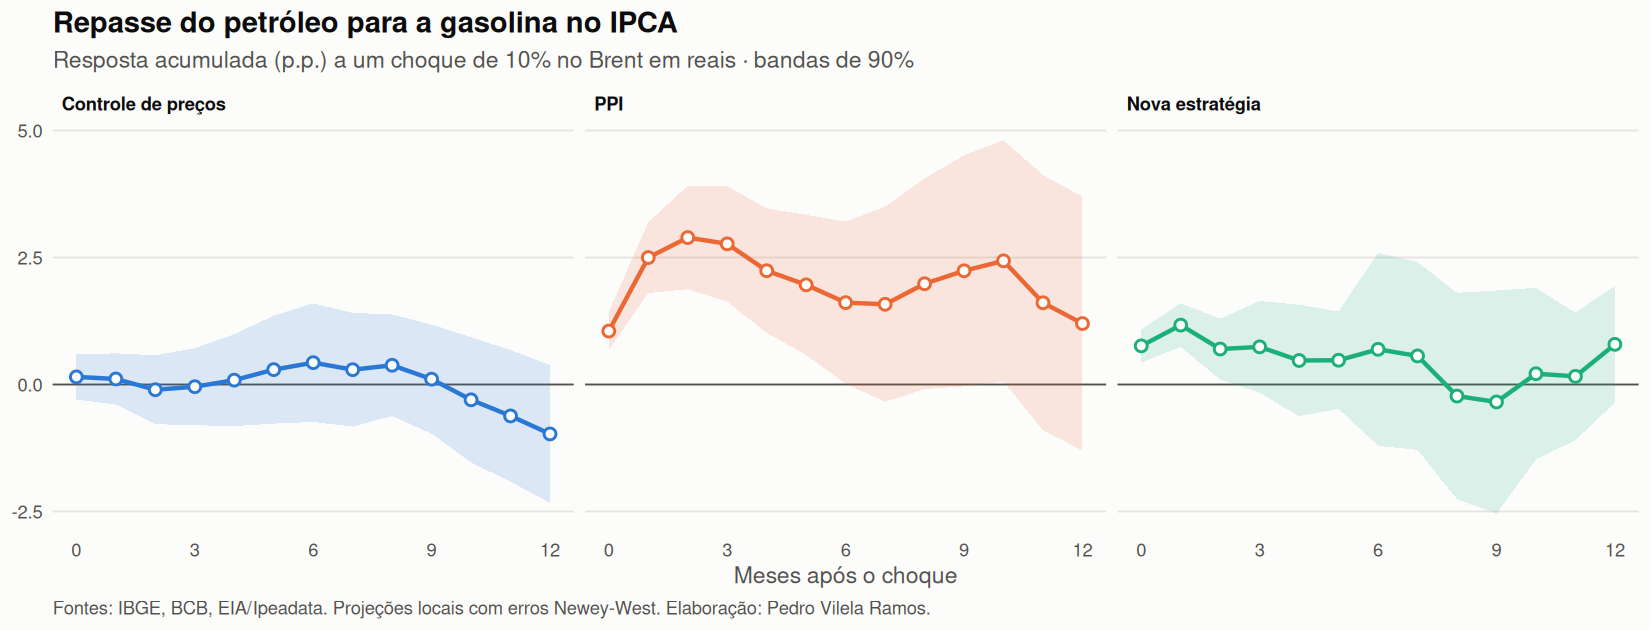
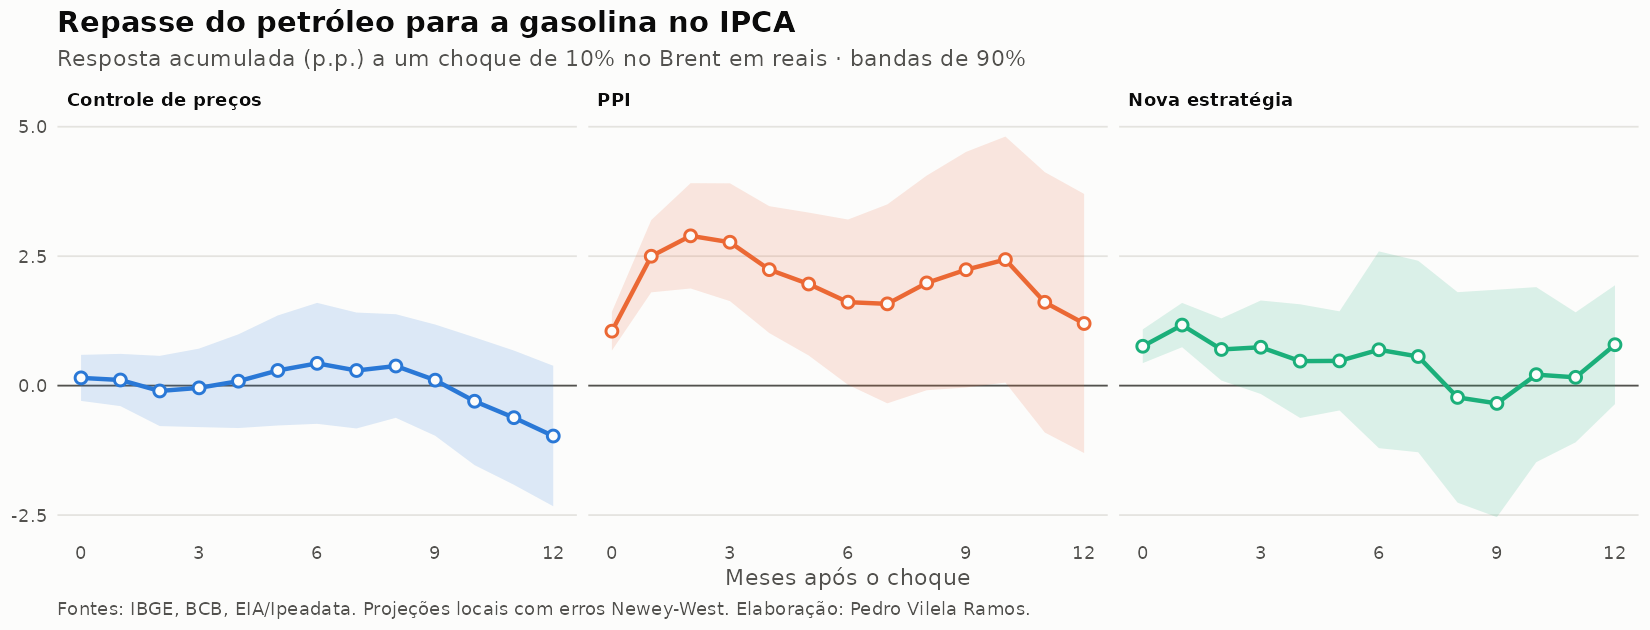
README com os principais resultados e ressalva sobre o câmbio
Claude-Session: https://claude.ai/code/session_01A8aCxCn2DUD2c3aXyb1F3v

diff --git a/README.md b/README.md
@@ -9,6 +9,22 @@ preços da Petrobras?
 
 ➡ **Tabela de resultados: [`resultados/resumo.md`](resultados/resumo.md)**
 
+## Principais resultados (amostra jul/2006 a ago/2026)
+
+Para um choque de **10% no Brent em reais**:
+
+- **Sob o PPI** (out/2016 a abr/2023), a gasolina no IPCA sobe cerca de **2,8%
+  em três meses**, e o IPCA cheio acumula **0,24 p.p. em três meses e 0,35 p.p.
+  em um ano**, todos estatisticamente significativos.
+- **Com preços controlados** (até set/2016), o repasse é **nulo**: a Petrobras
+  absorvia os choques, e a gasolina não reagia ao petróleo.
+- **Na nova estratégia** (desde mai/2023), o repasse de impacto para a gasolina
+  cai para cerca de **0,8%** e perde significância depois disso. A empresa
+  voltou a suavizar os preços, embora com menos observações.
+- O efeito **direto** (gasolina × seu peso no IPCA) explica só parte da resposta
+  do IPCA cheio. O resto soma efeitos indiretos e o repasse cambial (veja as
+  limitações).
+
 ## Por que isso importa
 
 A gasolina pesa cerca de 5% do IPCA e é um preço que responde a decisões da
@@ -89,6 +105,9 @@ reestima tudo no dia 20 de cada mês.
 - O Brent em reais é uma aproximação do custo de importação. O ideal é usar o
   preço de realização da Petrobras nas refinarias (ANP), que isola a decisão
   da empresa do resto da cadeia (distribuição, revenda, etanol anidro).
+- O choque é o Brent **em reais**, então inclui o câmbio. Uma depreciação também
+  encarece outros bens comercializáveis, o que infla a resposta do IPCA cheio.
+  O próximo passo é separar os dois choques (Brent em dólar e câmbio).
 - O regime "nova estratégia" ainda tem poucas observações, e as bandas são largas.
 - Extensões: diesel e seus efeitos via frete; assimetria entre altas e quedas
   (*rockets and feathers*); repasse para as expectativas do Focus.

diff --git a/resultados/resumo.md b/resultados/resumo.md
@@ -20,4 +20,5 @@
 Em **negrito**: intervalo de 90% não contém zero.
 \* Efeito direto = resposta da gasolina × peso médio da gasolina no IPCA no regime (Controle de preços: 4,09%; PPI: 4,85%; Nova estratégia: 5,12%).
 A diferença entre o IPCA cheio e o efeito direto é uma estimativa dos efeitos indiretos
-(frete, passagens, outros bens) e de segunda ordem.
+(frete, passagens, outros bens) e de segunda ordem. Como o choque inclui o câmbio,
+essa diferença também capta o repasse cambial para outros bens comercializáveis.
